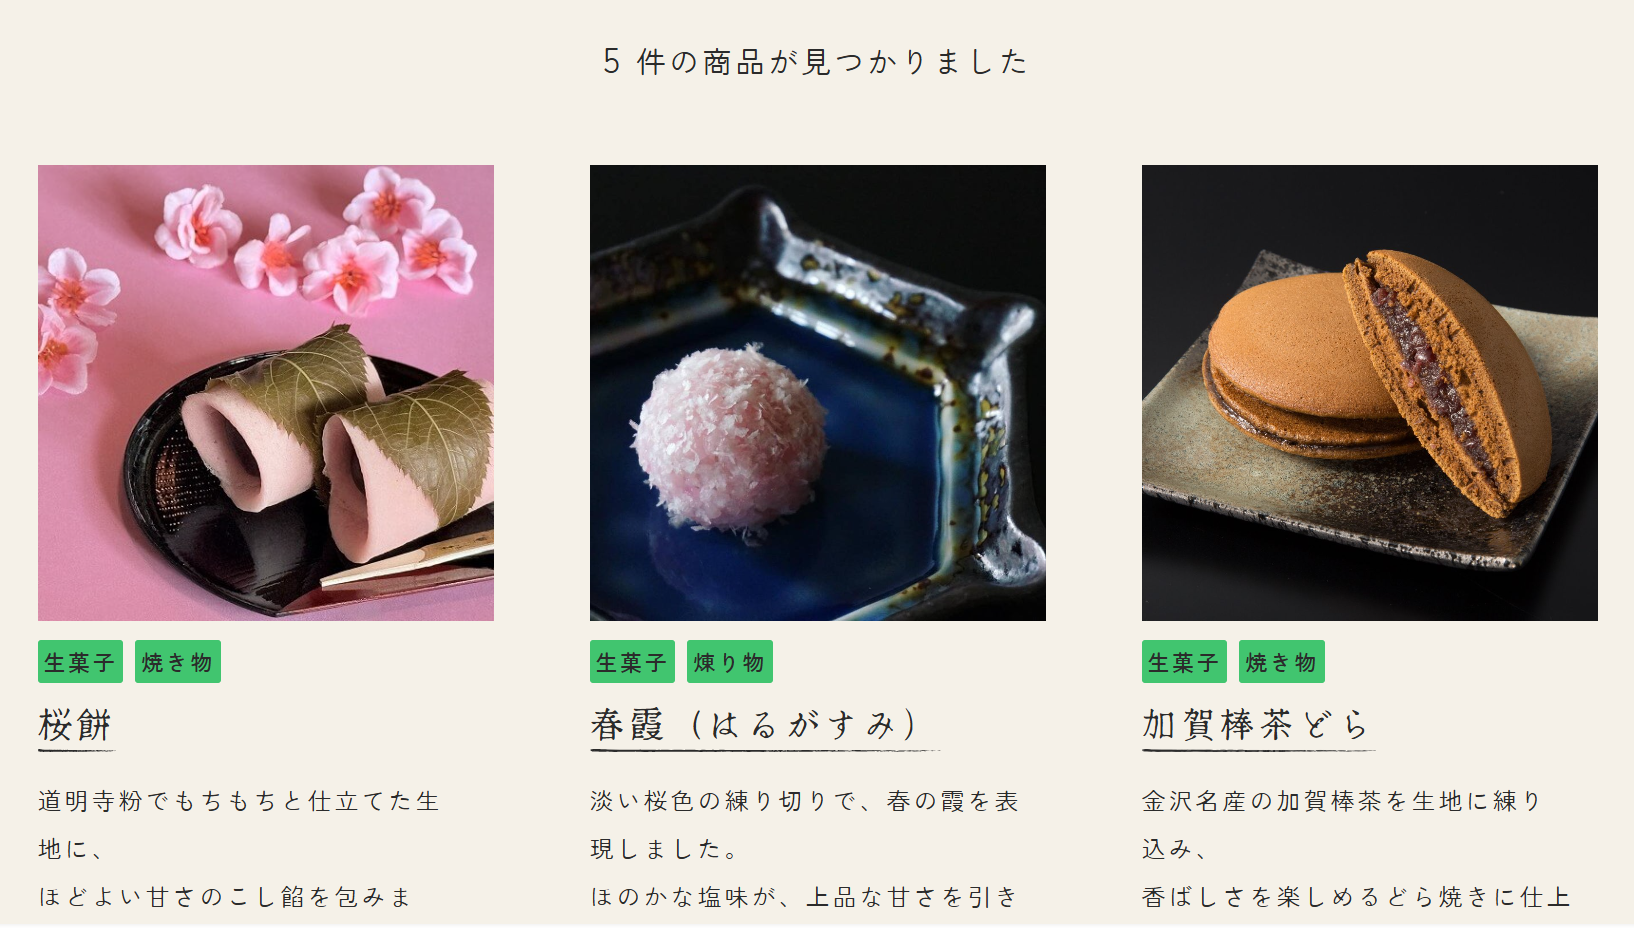
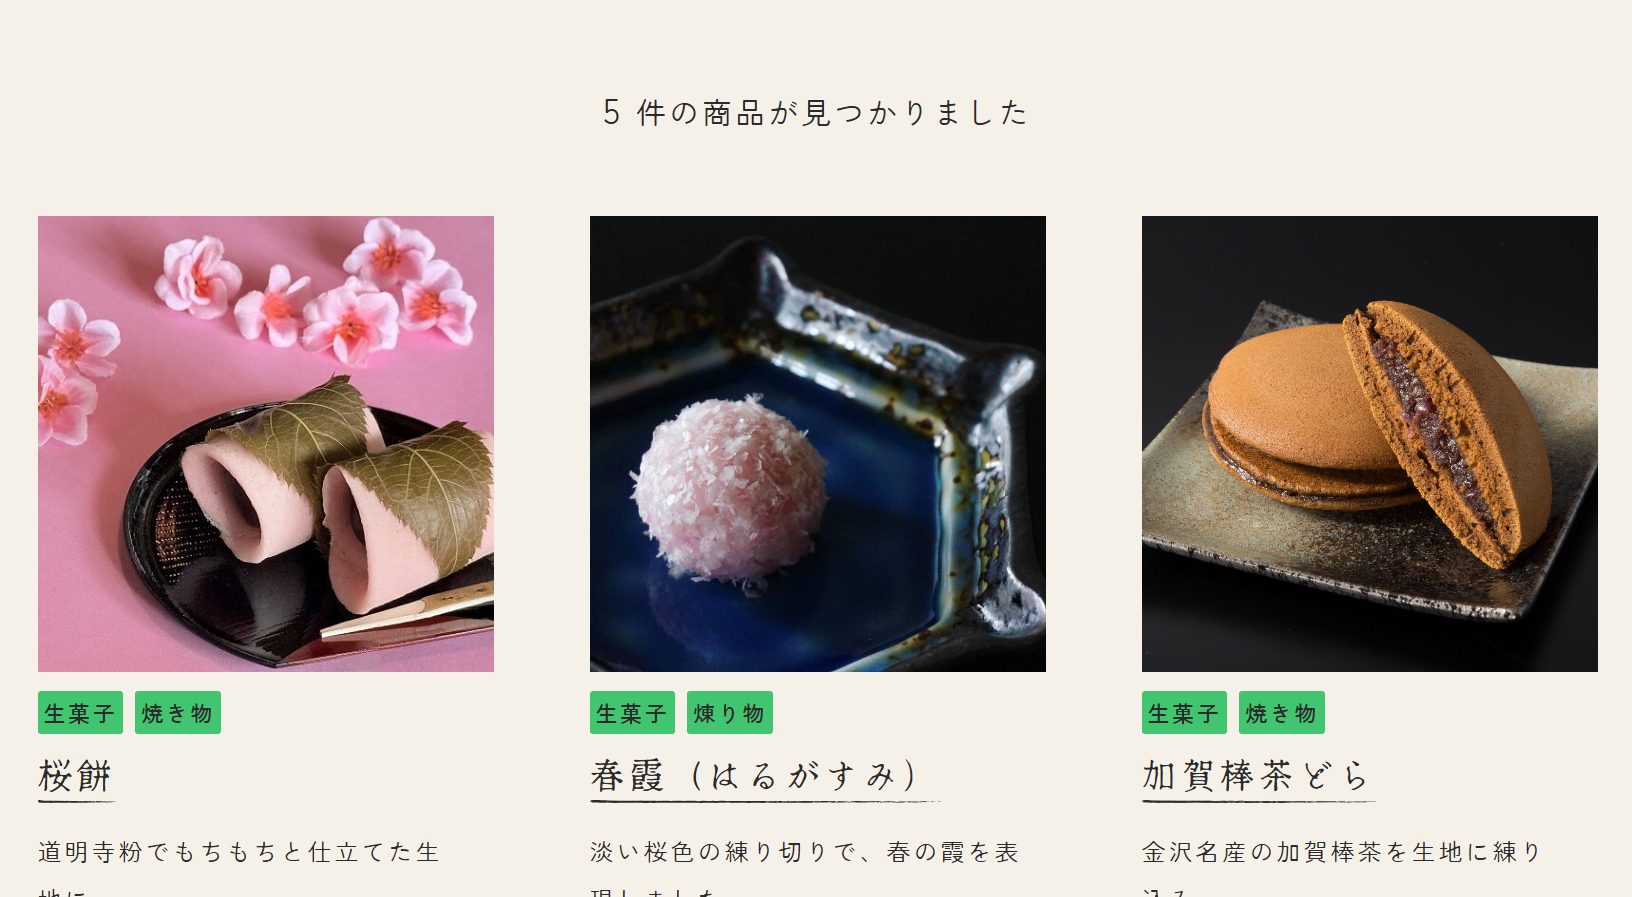
Completed work-ingenuity

diff --git a/work-kansaido.html b/work-kansaido.html
@@ -130,7 +130,7 @@
                     </p>
                 </div>
                 <div class="work-design-feature__inner">
-                    <div class="work-design-feature__card">
+                    <div class="work-design-feature__card hover-lift">
                         <div class="work-design-feature__visual">
                             <div class="work-design-feature__color-palette">
                                 <div class="work-design-feature__color-item">
@@ -153,7 +153,7 @@
                         自然で落ち着いた印象を表現しました。
                         </p>
                     </div>
-                    <div class="work-design-feature__card">
+                    <div class="work-design-feature__card hover-lift">
                         <div class="work-design-feature__visual">
                             <div class="work-design-feature__card--img"><img src="images/margin-screenshot.png" alt="余白のスクリーンショット"></div>
                         </div>
@@ -164,7 +164,7 @@
                         感じられるレイアウトにしました。
                         </p>
                     </div>
-                    <div class="work-design-feature__card">
+                    <div class="work-design-feature__card hover-lift">
                         <div class="work-design-feature__visual">
                             <div class="work-design-feature__card--logo"><img src="images/kansaido_icon_touka.png" alt="甘彩堂のロゴ"></div>
                         </div>
@@ -174,6 +174,49 @@
                         甘彩堂らしい信頼感やこだわりが<br>
                         伝わる構成にしました。
                         </p>
+                    </div>
+                </div>
+            </section>
+            <section class="work-detail background--change work-ingenuity">
+                <div class="section-heading work-detail__section-heading">
+                    <h2 class="work-detail__section-heading--title">実装・工夫した点</h2>
+                    <p>HTML/CSSでブランドサイト全体のページ構成を作成し、<br>
+                        商品一覧ページではJavaScriptを用いた絞り込み機能を実装しました。<br>
+                        見た目の雰囲気だけでなく、商品を探しやすくするための情報整理も意識しています。
+                    </p>
+                </div>
+                <div class="work-ingenuity__inner">
+                    <div class="work-ingenuity__card">
+                        <div class="work-ingenuity__card--img"><img src="images/filter-screenshot.png" alt="商品カードの絞り込み機能のスクリーンショット"></div>
+                        <div class="work-ingenuity__card-body">
+                            <h3 class="work-ingenuity__card--title">商品カードの分類設計</h3>
+                            <p class="work-ingenuity__card-text">商品カードには、菓子の種類や製法に応じた情報を持たせ、<br>
+                                JavaScriptで絞り込みができるようにしました。<br>
+                                商品名・説明文・価格・カテゴリをカード内に整理し、<br>
+                                複数の商品を比較しながら選びやすい構成を目指しました。
+                            </p>
+                        </div>
+                    </div>
+                    <div class="work-ingenuity__card">
+                        <div class="work-ingenuity__card--img"><img src="images/hit-screenshot.png" alt="ヒット件数のスクリーンショット"></div>
+                        <div class="work-ingenuity__card-body">
+                            <h3 class="work-ingenuity__card--title">ヒット件数の表示</h3>
+                            <p class="work-ingenuity__card-text">絞り込み結果に応じて、該当する商品の件数を表示するようにしました。<br>
+                                条件に合う商品がない場合もメッセージを表示し、<br>
+                                ユーザーが現在の検索状態を分かりやすく把握できるようにしています。
+                            </p>
+                        </div>
+                    </div>
+                    <div class="work-ingenuity__card">
+                        <div class="work-ingenuity__card--img"><img src="images/pages-screenshot.png" alt="複数ページのスクリーンショット"></div>
+                        <div class="work-ingenuity__card-body">
+                            <h3 class="work-ingenuity__card--title">複数ページを想定した構成</h3>
+                            <p class="work-ingenuity__card-text">トップページだけでなく、<br>
+                                商品一覧、贈りもの、甘彩堂の想いを伝えるページなどを用意し、<br>
+                                商品の魅力だけでなく、<br>
+                                店舗の歴史やギフト利用に関する情報も伝わる構成にしました。
+                            </p>
+                        </div>
                     </div>
                 </div>
             </section>

diff --git a/index.html b/index.html
@@ -38,7 +38,7 @@
                     <h3 class="section-heading__title">制作した作品</h3>
                 </div>
                 <div class="works__list">
-                    <article class="work-card">
+                    <article class="work-card card-hover">
                         <div class="work-card__body">
                             <div class="work-card__image"><img src="images/kansaidou.png" alt="和菓子屋のブランドサイトのスクリーンショット"></div>
                             <div class="work-card__tags">
@@ -56,7 +56,7 @@
                             </div>
                         </div>
                     </article>
-                    <article class="work-card">
+                    <article class="work-card card-hover">
                         <div class="work-card__body">
                             <div class="work-card__image"><img src="images/hukunavi.png" alt="福井県観光スポット案内アプリ「ふくナビ」のスクリーンショット"></div>
                             <div class="work-card__tags">
@@ -73,7 +73,7 @@
                             </div>
                         </div>
                     </article>
-                    <article class="work-card">
+                    <article class="work-card hover-lift">
                         <div class="work-card__body">
                             <div class="work-card__image"><img src="images/hosikimi.png" alt="架空アニメ公式サイトのスクリーンショット"></div>
                             <div class="work-card__tags">

diff --git a/css/work-detail.css b/css/work-detail.css
@@ -160,6 +160,7 @@
     text-align: center;
     border-radius: 15px;
     border: 2px solid #C3C3C3;
+    transition: transform 0.3s ease, box-shadow 0.3s ease;
 }
 
 .work-design-feature__visual {
@@ -222,4 +223,49 @@
 
 .work-design-feature__card--title {
     font-size: 1.5rem;
+}
+
+/* 実装・工夫した点セクション */
+
+.work-ingenuity__inner {
+    display: grid;
+    justify-content: center;
+    margin: 6rem;
+    gap: 2rem;
+}
+
+.work-ingenuity__card {
+    display: grid;
+    grid-template-columns: 400px 1fr;
+    gap: 3.75rem;
+}
+
+.work-ingenuity__card--img {
+    width: 400px;
+    height: 250px;
+    overflow: hidden;
+    border-radius: 15px;
+    border: 2px solid #C3C3C3;
+}
+
+.work-ingenuity__card--img img {
+    width: 100%;
+    height: 100%;
+    object-fit: cover;
+}
+
+.work-ingenuity__card-body {
+    display: grid;
+    grid-template-rows: 1fr auto;
+    gap: 1rem;
+    align-items: end;
+}
+
+.work-ingenuity__card--title {
+    font-size: 24px;
+}
+
+.work-ingenuity__card:not(:last-child) {
+    border-bottom: 2px solid #C3C3C3;
+    padding-bottom: 2rem;
 }

diff --git a/css/style.css b/css/style.css
@@ -208,11 +208,11 @@ section {
     padding: 1rem;
     background-color: var(--color--button-text);
     border-radius: 15px;
-    box-shadow: var(--shadow-card);
+    border: 2px solid #C3C3C3;
     transition: transform 0.3s ease, box-shadow 0.3s ease;
 }
 
-.work-card:hover {
+.hover-lift:hover {
     transform: translateY(-4px);
     box-shadow: 0 8px 16px rgba(0, 0, 0, 0.2);
 }
@@ -289,7 +289,7 @@ section {
     grid-template-columns: 200px 1fr;
     background-color: var(--color--button-text);
     border-radius: 15px;
-    box-shadow: var(--shadow-card);
+    border: 2px solid #C3C3C3;
     margin: 4rem;
     padding: 3rem 2rem;
 }
